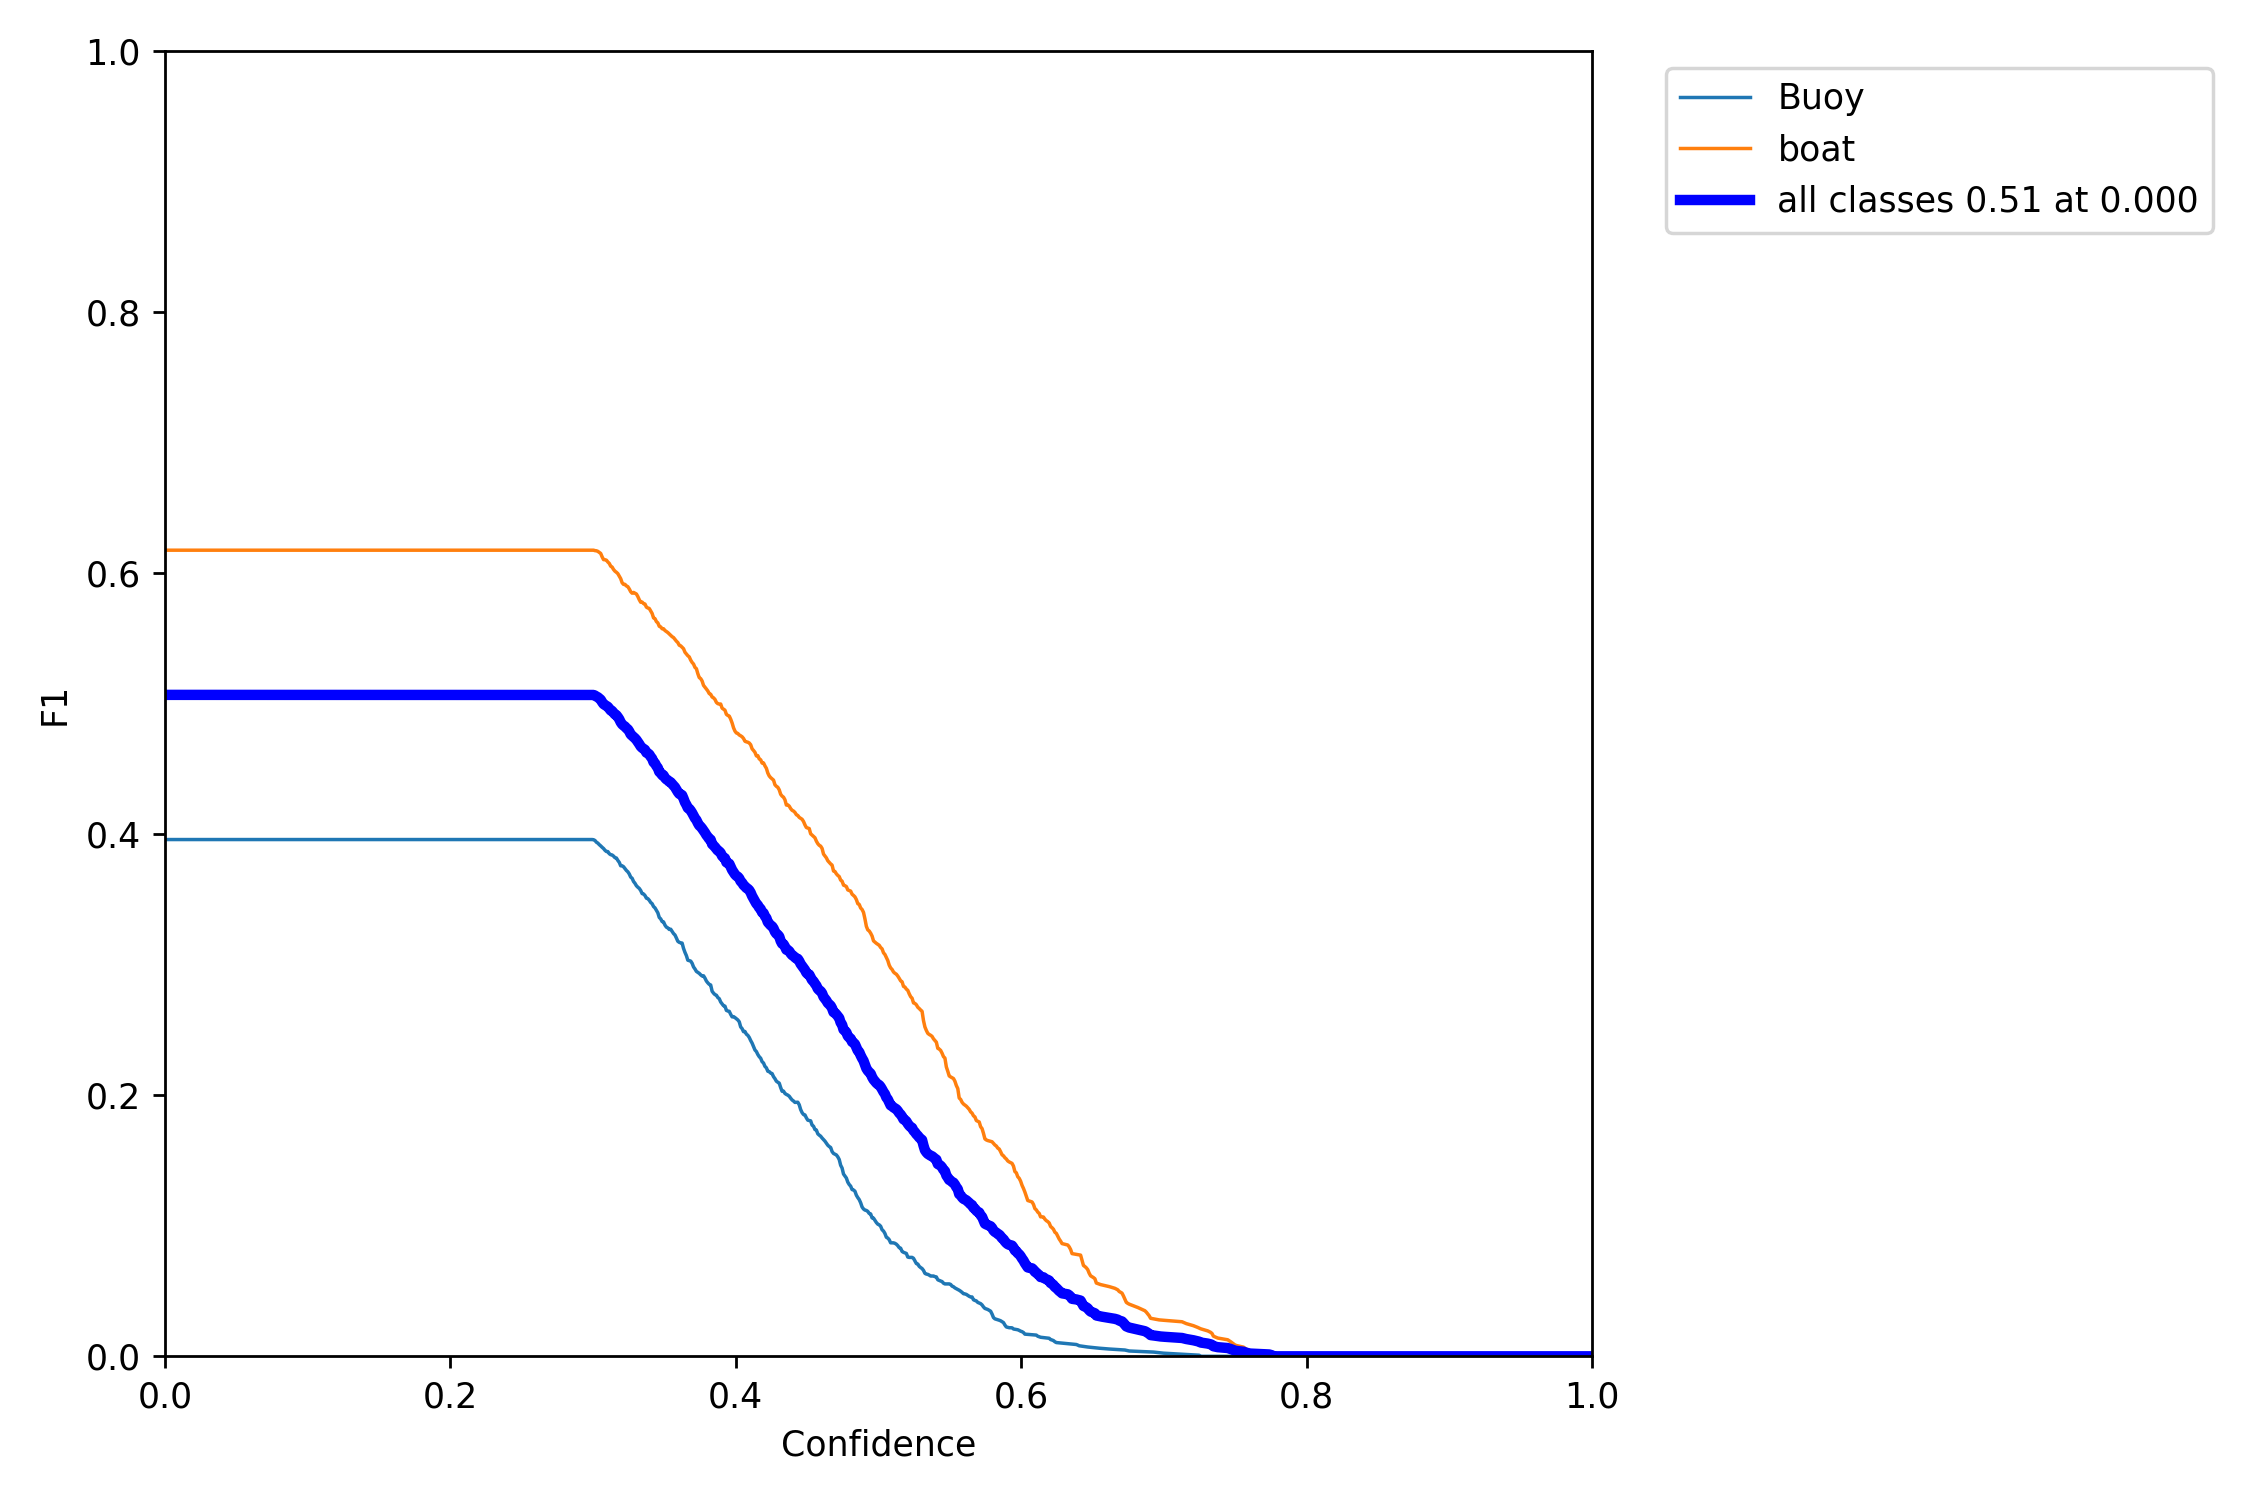
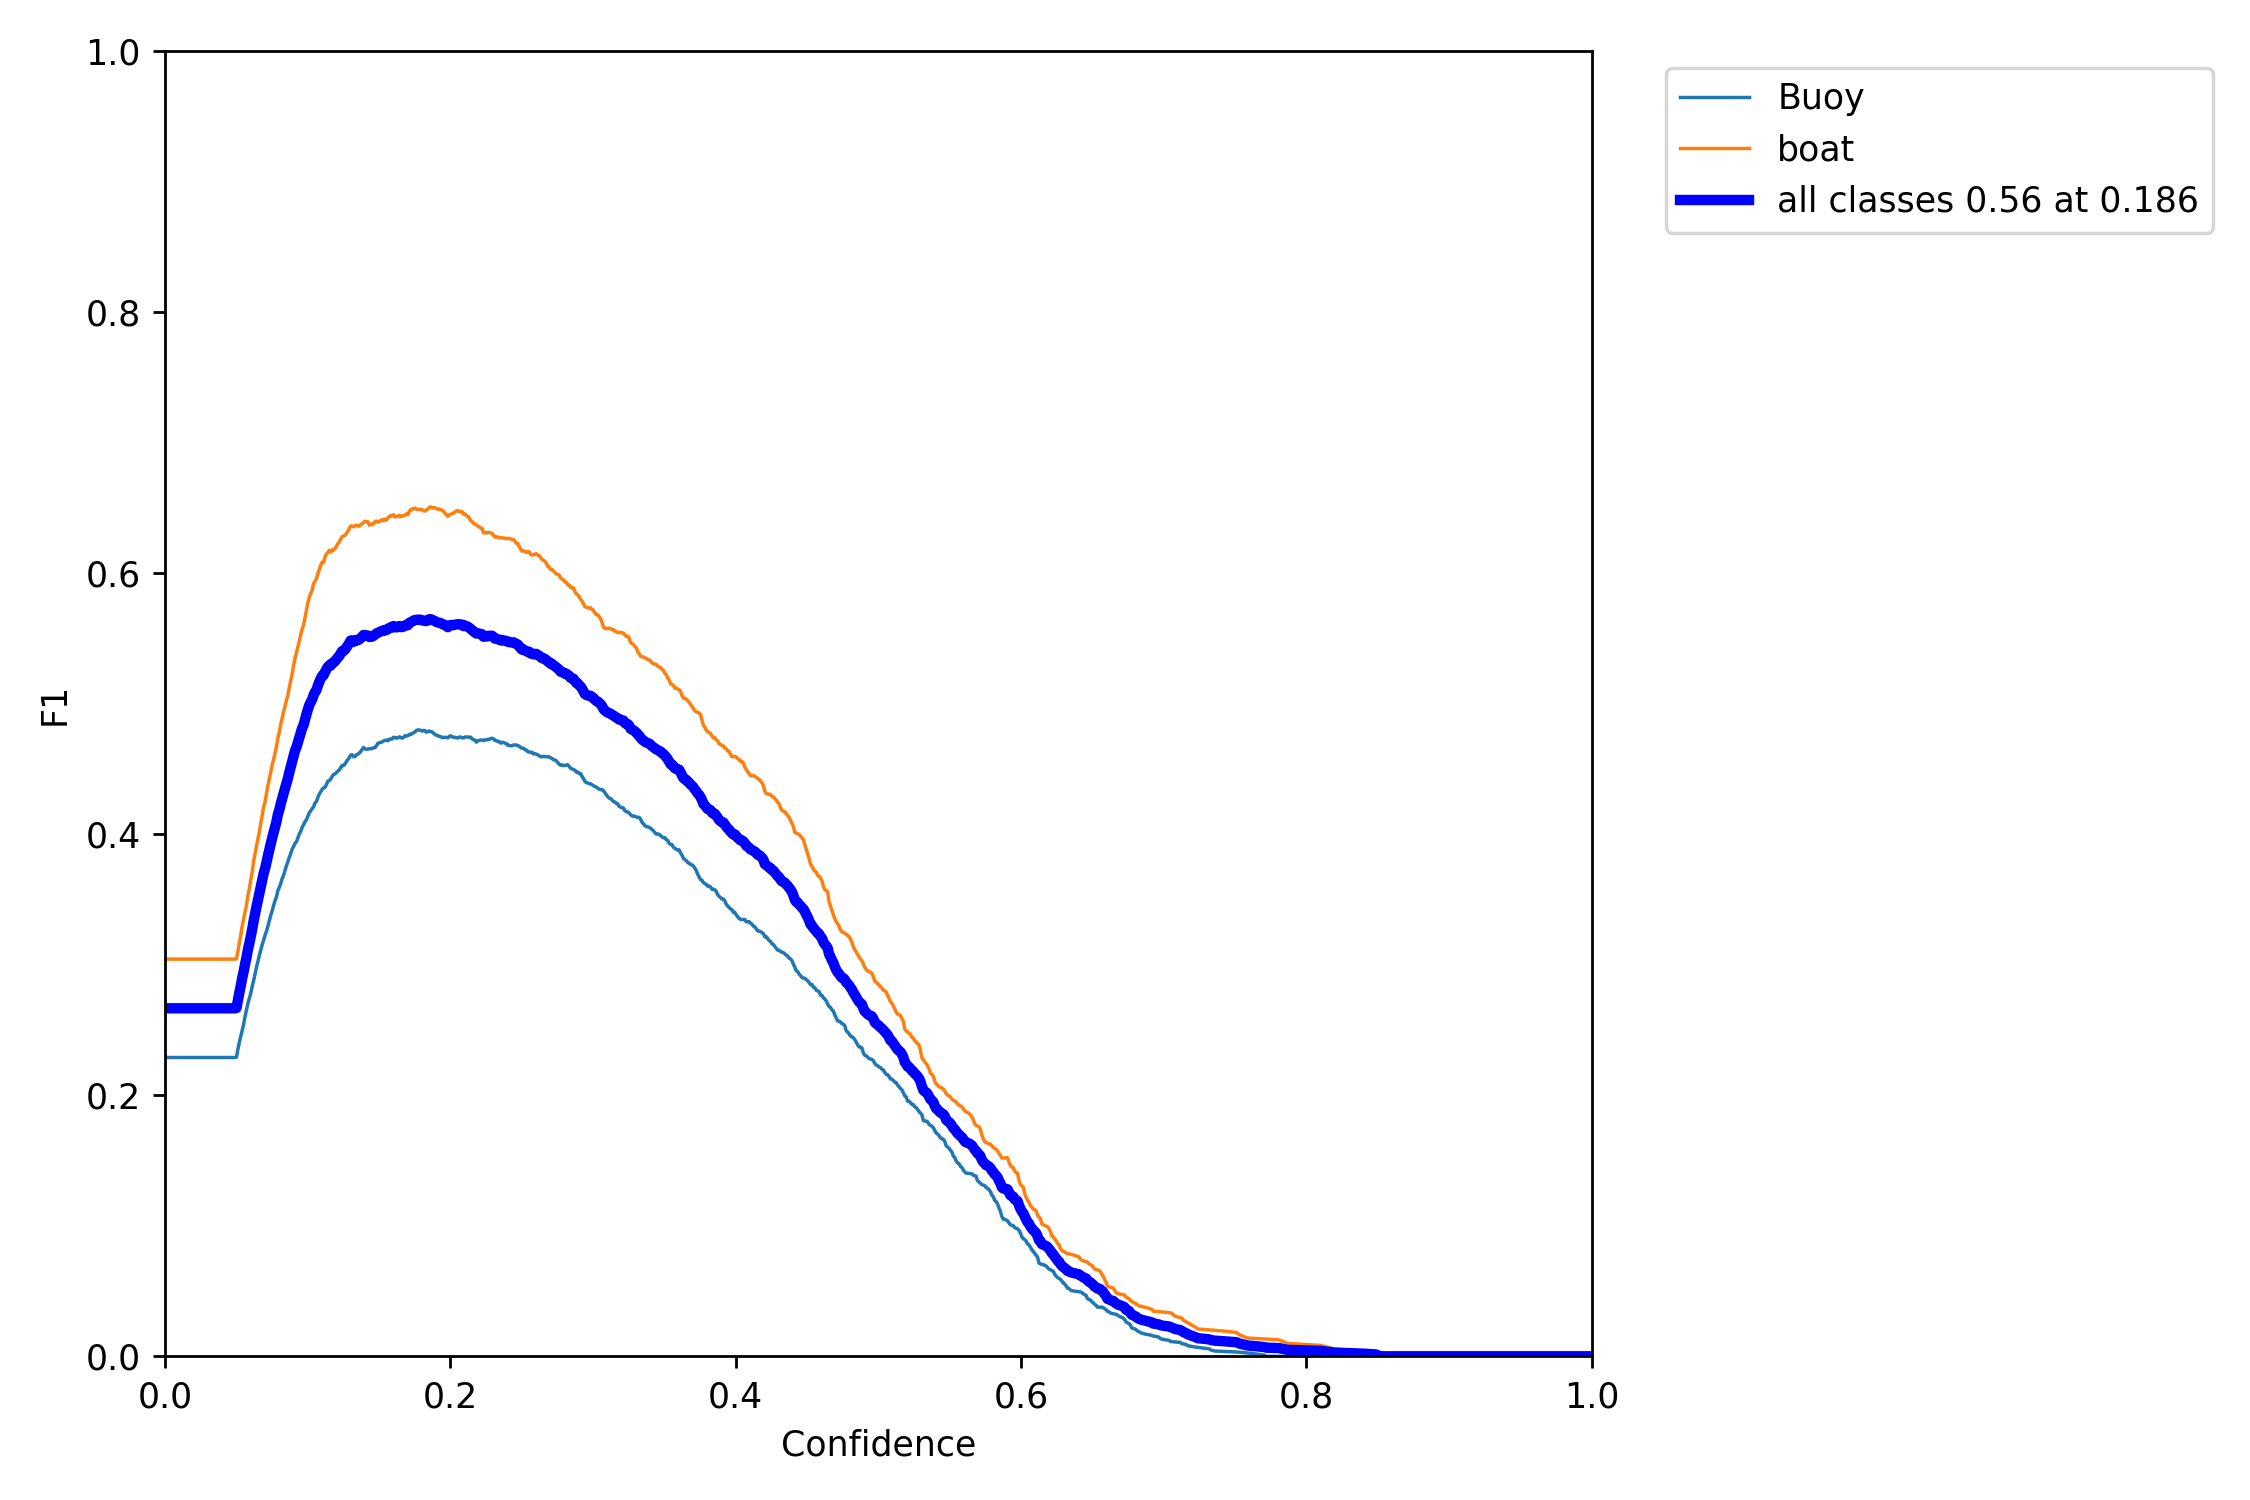
[bug] recall fix

diff --git a/network/retinanet.py b/network/retinanet.py
@@ -272,7 +272,7 @@ class ResNet(MetaModule):
 
             scores = torch.max(classification, dim=2, keepdim=True)[0]
 
-            scores_over_thresh = (scores > 0.3)[:, :, 0]  # certainty threshold
+            scores_over_thresh = (scores > 0.05)[:, :, 0]  # certainty threshold
 
             if scores_over_thresh.sum() == 0:
                 # no boxes to NMS, just return
@@ -282,7 +282,7 @@ class ResNet(MetaModule):
             transformed_anchors = [transformed_anchors[i, scores_over_thresh[i], :] for i in range(transformed_anchors.shape[0])]
             scores = [scores[i, scores_over_thresh[i], :] for i in range(scores.shape[0])]
 
-            batched_nms_idxs = [nms(transformed_anchors[i], scores[i][:, 0], 0.1) for i in
+            batched_nms_idxs = [nms(transformed_anchors[i], scores[i][:, 0], 0.5) for i in
                                 range(len(transformed_anchors))]
             scores_classes = []
             for i, c in enumerate(classification):

diff --git a/network/csv_eval.py b/network/csv_eval.py
@@ -92,7 +92,7 @@ def ap_per_class(tp, conf, pred_cls, target_cls, plot=False, save_dir='.', names
     f1 = 2 * p * r / (p + r + 1e-16)
     names = [v for k, v in names.items() if k in unique_classes]  # list: only classes that have data
     names = {i: v for i, v in enumerate(names)}  # to dict
-    if plot and py.shape[0] != 0:
+    if plot and len(py) != 0:
         pr_p = plot_pr_curve(px, py, ap, 'PR_curve.png', names)
         f1_p = plot_mc_curve(px, f1, 'F1_curve.png', names, ylabel='F1')
         p_p = plot_mc_curve(px, p, 'P_curve.png', names, ylabel='Precision')

diff --git a/train.py b/train.py
@@ -417,13 +417,13 @@ def reweight_loop_old(model, lr, image, labels, parser, val_sample, m_epoch_loss
     grad_eps = torch.autograd.grad(l_g_meta, eps)[0].detach()
     # Line 11 computing and normalizing the weights
     w_tilde = torch.clamp(-grad_eps, min=0)
-    norm_c = torch.sum(w_tilde)
+    norm_c = torch.sum(w_tilde) + 1e-10
     if norm_c != 0:
         w = w_tilde / norm_c
     else:
         w = w_tilde
 
-    wl = torch.le(w, 0.005)
+    wl = torch.le(w, 0.01)
     ### meta annotation
 
     update_anno = np.full(parser.batch_size, False)
